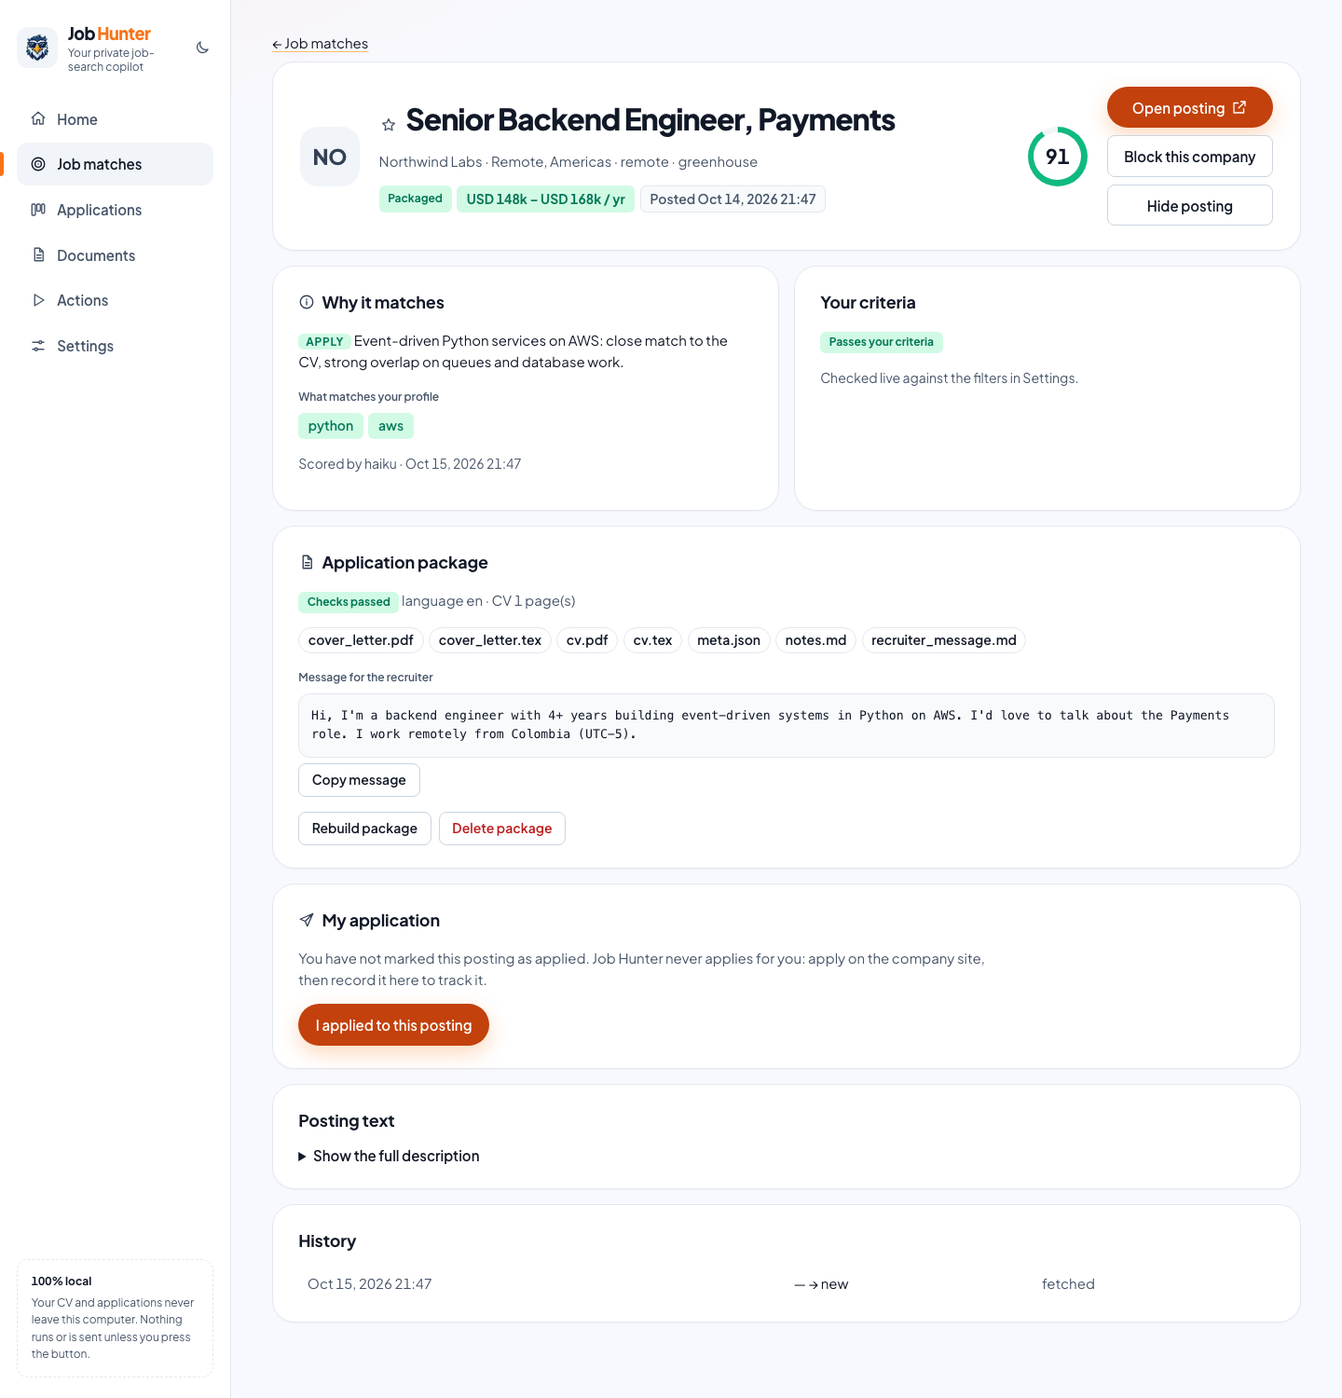
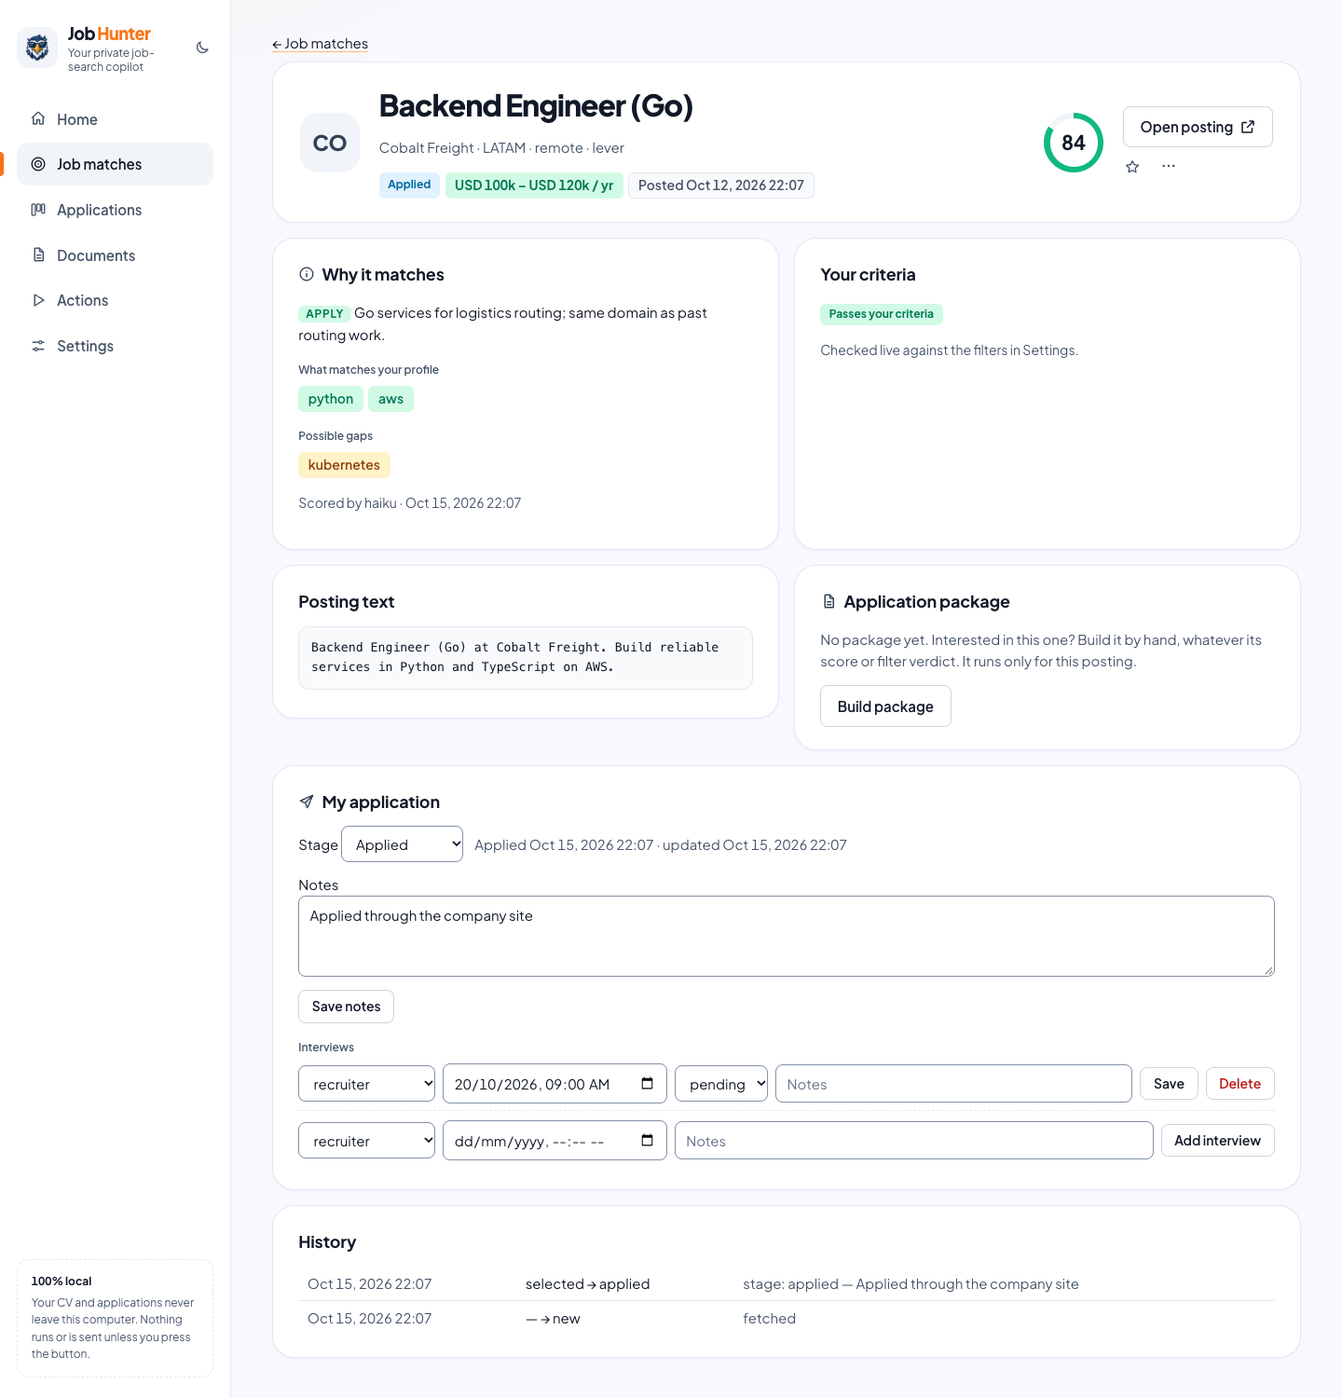
[DESIGN] - refactor posting page and job cards

diff --git a/src/jobhunter/web/templates/job.html b/src/jobhunter/web/templates/job.html
@@ -6,7 +6,7 @@
 <header class="job-head card">
   {{ m.avatar(job.company, 64) }}
   <div class="grow">
-    <h1>{{ m.star(job.id, favorite) }} {{ job.title }}</h1>
+    <h1>{{ job.title }}</h1>
     <p class="muted">{{ job.company }} · {{ job.location or 'location not stated' }} · {{ job.remote }} · {{ job.source }}</p>
     <div class="chips">
       <span class="badge st-{{ job.status }}">{{ STATUS_LABELS.get(job.status, job.status) }}</span>
@@ -20,9 +20,22 @@
   </div>
   {{ m.ring(score.score if score else none, 64) }}
   <div class="actions col">
-    {% if job.url.startswith('http://') or job.url.startswith('https://') %}<a class="btn primary" href="{{ job.url }}" target="_blank" rel="noopener" rel="noopener noreferrer">Open posting {{ m.icon('ext') }}</a>{% else %}<span class="muted">Posting link unavailable</span>{% endif %}
-    {% if not blocked %}<button class="btn" data-block-company="{{ job.company }}" data-blocked='{{ config_blocked|tojson|forceescape }}'>Block this company</button>{% endif %}
-    {% if not application and job.status != 'ignored' %}<button class="btn" data-post="/api/jobs/{{ job.id }}/ignore" data-json='{}' data-confirm="Hide this posting for good?">Hide posting</button>{% endif %}
+    {% set can_open = job.url.startswith('http://') or job.url.startswith('https://') %}
+    {% if job.status in ['passed', 'score_failed'] and not score %}<button class="btn primary" data-run='{{ {"id": "score", "jobs": [job.id]}|tojson|forceescape }}' data-label="Scoring this posting with AI" data-reload>{{ m.icon('spark') }} Score this posting</button>
+    {% elif not package and not application %}<button class="btn primary" data-run='{{ {"id": "tailor", "jobs": [job.id]}|tojson|forceescape }}' data-label="Building the package for this posting" data-reload>{{ m.icon('spark') }} Build package</button>
+    {% elif not application and can_open %}<a class="btn primary" href="{{ job.url }}" target="_blank" rel="noopener noreferrer">Open posting to apply {{ m.icon('ext') }}</a>{% endif %}
+    {% if can_open and not (not application and package) %}<a class="btn" href="{{ job.url }}" target="_blank" rel="noopener noreferrer">Open posting {{ m.icon('ext') }}</a>
+    {% elif not can_open %}<span class="muted">Posting link unavailable</span>{% endif %}
+    <div class="actions">
+      {{ m.star(job.id, favorite) }}
+      <details class="more">
+        <summary class="icon-btn" aria-label="More actions for this posting">{{ m.icon('more') }}</summary>
+        <div class="menu">
+          {% if not blocked %}<button type="button" data-block-company="{{ job.company }}" data-blocked='{{ config_blocked|tojson|forceescape }}'>Block this company</button>{% endif %}
+          {% if not application and job.status != 'ignored' %}<button type="button" data-post="/api/jobs/{{ job.id }}/ignore" data-json='{}' data-confirm="Hide this posting for good?">Not for me</button>{% endif %}
+        </div>
+      </details>
+    </div>
   </div>
 </header>
 
@@ -37,8 +50,7 @@
       {% if score.score < threshold %}<p class="muted small mt">Match score {{ score.score }} is below your best-match threshold of {{ threshold }} (Settings → AI &amp; documents). This is the AI's fit score, not your salary or location criteria.</p>{% endif %}
       <p class="muted small mt">Scored by {{ score.model }} · {{ score.created_at|dt }}</p>
     {% elif job.status in ['passed', 'score_failed'] %}
-      <p class="muted">Not scored yet. Score just this posting, or all pending ones from Home.</p>
-      <button class="btn primary" data-run='{{ {"id": "score", "jobs": [job.id]}|tojson|forceescape }}' data-label="Scoring this posting with AI" data-reload>{{ m.icon('spark') }} Score this posting with AI</button>
+      <p class="muted">Not scored yet. Press <b>Score this posting</b> at the top, or score all pending ones from Home.</p>
     {% else %}<p class="muted">Not scored yet. It has to pass your criteria first, then use “Score with AI” on the Home page.</p>{% endif %}
   </section>
 
@@ -57,6 +69,11 @@
   <button class="btn small" data-fav-note="{{ job.id }}">Save note</button>
 </section>
 
+<div class="grid-2 workspace">
+<section class="card">
+  <h2>Posting text</h2>
+  <pre class="desc">{{ job.description }}</pre>
+</section>
 <section class="card" id="package">
   <h2>{{ m.icon('doc') }} Application package</h2>
   {% if package %}
@@ -72,10 +89,11 @@
     <div class="actions mt"><button class="btn small" data-run='{{ {"id": "tailor", "jobs": [job.id]}|tojson|forceescape }}' data-label="Rebuilding the package" data-reload>Rebuild package</button>
       <button class="btn small danger" data-post="/api/jobs/{{ job.id }}/package/delete" data-json='{}' data-confirm="Delete the generated CV, letter and notes for this posting? Your application record is kept.">Delete package</button></div>
   {% else %}
-    <p class="muted">No package yet. Interested in this one? Build it by hand, whatever its score or filter verdict. It runs here, only for this posting.</p>
-    <button class="btn primary" data-run='{{ {"id": "tailor", "jobs": [job.id]}|tojson|forceescape }}' data-label="Building the package for this posting" data-reload>Build package for this posting</button>
+    <p class="muted">No package yet. Interested in this one? Build it by hand, whatever its score or filter verdict. It runs only for this posting.</p>
+    {% if application %}<button class="btn" data-run='{{ {"id": "tailor", "jobs": [job.id]}|tojson|forceescape }}' data-label="Building the package for this posting" data-reload>Build package</button>{% endif %}
   {% endif %}
 </section>
+</div>
 
 <section class="card">
   <h2>{{ m.icon('send') }} My application</h2>
@@ -104,18 +122,14 @@
       <select name="kind" aria-label="New interview: kind">{% for k in KINDS %}<option value="{{ k }}">{{ k.replace('_', ' ') }}</option>{% endfor %}</select>
       <input type="datetime-local" name="scheduled_at" aria-label="New interview: date and time">
       <input type="text" name="notes" placeholder="Notes" aria-label="New interview: notes">
-      <button class="btn primary small" type="submit">Add interview</button>
+      <button class="btn small" type="submit">Add interview</button>
     </form>
   {% else %}
     <p class="muted">You have not marked this posting as applied. Job Hunter never applies for you: apply on the company site, then record it here to track it.</p>
-    <button class="btn primary" data-post="/api/jobs/{{ job.id }}/stage" data-json='{"stage": "applied"}'>I applied to this posting</button>
+    <button class="btn" data-post="/api/jobs/{{ job.id }}/stage" data-json='{"stage": "applied"}'>I applied to this posting</button>
   {% endif %}
 </section>
 
-<section class="card">
-  <h2>Posting text</h2>
-  <details><summary>Show the full description</summary><pre class="desc">{{ job.description }}</pre></details>
-</section>
 
 <section class="card">
   <h2>History</h2>

diff --git a/src/jobhunter/web/templates/_top.html b/src/jobhunter/web/templates/_top.html
@@ -10,7 +10,7 @@
       <span class="chip">{{ r.location or 'Location not stated' }}</span>
       {% if r.remote not in (r.location or '')|lower %}<span class="chip">{{ r.remote }}</span>{% endif %}
       {% if r.salary_max %}<span class="chip pay">{{ r.salary_max|money(r.salary_currency) }}/yr</span>{% endif %}
-      <span class="badge st-{{ r.status }}">{{ STATUS_LABELS.get(r.status, r.status) }}</span>
+      {% if r.status not in ('scored', 'selected') %}<span class="badge st-{{ r.status }}">{{ STATUS_LABELS.get(r.status, r.status) }}</span>{% endif %}
       {% if below and r.status != 'below_threshold' %}<span class="badge warn">below your threshold</span>{% endif %}
       {% if r.source == 'manual' %}<span class="chip">Manual</span>{% endif %}
       {% if r.is_favorite and r.status == 'closed' %}<span class="badge bad">Closed</span>{% endif %}
@@ -23,11 +23,17 @@
   </div>
   {{ m.ring(r.score, 52) }}
   <div class="job-actions">
-    {% if r.has_package %}<a class="btn small primary" href="/jobs/{{ r.id }}#package">View package</a>
-    {% else %}<button class="btn small primary" data-run='{{ {"id": "tailor", "jobs": [r.id]}|tojson|forceescape }}' data-label="Building the package for “{{ r.title|truncate(40) }}”" data-reload>Build package</button>{% endif %}
-    {% if not r.stage %}<button class="btn small" data-post="/api/jobs/{{ r.id }}/stage" data-json='{"stage": "applied"}' data-top-check>I applied</button>
-    {% if r.status != 'ignored' %}<button class="btn small ghost" data-post="/api/jobs/{{ r.id }}/ignore" data-json='{}' data-confirm="Hide this posting for good?" data-top-check>Hide</button>
-    <button class="btn small ghost" data-not-for-me="{{ r.id }}" data-title="{{ r.title }}" data-company="{{ r.company }}">Not for me</button>{% endif %}{% endif %}
+    {% set visible = r.has_package or r.status in ('scored', 'selected', 'packaged', 'below_threshold') %}
+    {% if r.has_package %}<a class="btn small" href="/jobs/{{ r.id }}#package">View package</a>
+    {% elif visible %}<button class="btn small" data-run='{{ {"id": "tailor", "jobs": [r.id]}|tojson|forceescape }}' data-label="Building the package for “{{ r.title|truncate(40) }}”" data-reload>Build package</button>{% endif %}
+    <details class="more">
+      <summary class="icon-btn" aria-label="More actions for {{ r.title }}">{{ m.icon('more') }}</summary>
+      <div class="menu">
+        {% if not r.has_package and not visible %}<button type="button" data-run='{{ {"id": "tailor", "jobs": [r.id]}|tojson|forceescape }}' data-label="Building the package for “{{ r.title|truncate(40) }}”" data-reload>Build package</button>{% endif %}
+        {% if not r.stage %}<button type="button" data-post="/api/jobs/{{ r.id }}/stage" data-json='{"stage": "applied"}' data-top-check>I applied</button>
+        {% if r.status != 'ignored' %}<button type="button" data-not-for-me="{{ r.id }}" data-title="{{ r.title }}" data-company="{{ r.company }}">Not for me</button>{% endif %}{% endif %}
+      </div>
+    </details>
   </div>
 </article>
 {% endmacro %}
@@ -50,7 +56,9 @@
 <section class="card top-board" id="top-board" data-top-target="{{ plan.target }}">
   <div class="card-head"><h2>{{ m.icon('target') }} Your top {{ plan.target }}</h2>
     <p class="muted small">The best fits you have not dismissed. Hide one, or say it is not for you, and the next best takes its place.</p></div>
-  {{ top_fill(plan) }}
+  {% set todo = plan.board|rejectattr('has_package')|list %}
+  {% if todo %}<div class="board-head-action"><button class="btn primary" data-run='{{ {"id": "tailor", "jobs": todo|map(attribute="id")|list}|tojson|forceescape }}' data-label="Building {{ todo|length }} package{{ 's' if todo|length != 1 }}" data-reload>{{ m.icon('spark') }} Build {{ todo|length }} package{{ 's' if todo|length != 1 }} for your top {{ plan.target }}</button></div>{% endif %}
+  {{ top_fill(plan, not todo) }}
   {% if plan.below %}<p class="callout warn"><b>{{ m.icon('alert') }} {{ plan.below }} of these {{ 'is' if plan.below == 1 else 'are' }} below your score threshold.</b> They are the best of what is scored, not strong matches.</p>{% endif %}
   {% for r in plan.board %}{{ job_card(r, blocked, r.below_threshold) }}{% else %}<p class="muted">Nothing scored yet. Score your matches from Home.</p>{% endfor %}
   {% for text in suggestions %}<p class="hint">{{ m.icon('info') }} {{ text }}</p>{% endfor %}

diff --git a/src/jobhunter/web/static/style.css b/src/jobhunter/web/static/style.css
@@ -630,6 +630,37 @@ legend.flabel { padding: 0; }
 .job-reason { margin: .5rem 0 0; color: var(--ink); font-size: var(--text-sm); text-wrap: pretty; }
 .warn-line { margin: .35rem 0 0; color: var(--warn); font-size: var(--text-sm); display: flex; gap: .35rem; align-items: center; }
 .job-actions { display: flex; flex-direction: column; gap: .4rem; align-items: stretch; min-width: 128px; }
+.board-head-action { margin: .2rem 0 .8rem; }
+.more { position: relative; }
+.more > summary { list-style: none; cursor: pointer; display: inline-grid; place-items: center; }
+.more > summary::-webkit-details-marker { display: none; }
+.more .menu {
+  position: absolute;
+  right: 0;
+  top: calc(100% + .25rem);
+  z-index: var(--z-menu);
+  min-width: 11rem;
+  display: flex;
+  flex-direction: column;
+  padding: .3rem;
+  background: var(--panel);
+  border: 1px solid var(--border);
+  border-radius: var(--r-md);
+  box-shadow: var(--shadow-hover);
+}
+.more .menu button {
+  background: transparent;
+  border: 0;
+  border-radius: var(--r-sm);
+  padding: .5rem .7rem;
+  text-align: left;
+  font: inherit;
+  color: var(--ink);
+  cursor: pointer;
+}
+.more .menu button:hover { background: var(--soft); }
+.workspace { align-items: start; }
+.workspace pre.desc { white-space: pre-wrap; }
 .verdict {
   text-transform: uppercase;
   font-size: var(--text-xs);
@@ -725,7 +756,6 @@ ul.flags { margin: .3rem 0 0; padding-left: 1.2rem; }
 }
 .job-card .ring { order: 3; }
 .job-card .job-actions { order: 4; flex-direction: row; align-items: center; min-width: 18.5rem; justify-content: flex-end; }
-.job-card .job-actions .btn.ghost { padding-inline: .5rem; }
 .ring.none { box-shadow: none; }
 .big-link:hover { color: var(--accent-text); }
 .st-score_failed { background: var(--bad-soft); color: var(--bad); }

diff --git a/src/jobhunter/web/templates/_not_for_me.html b/src/jobhunter/web/templates/_not_for_me.html
@@ -2,12 +2,12 @@
   <form method="dialog" class="modal-body" id="nfm-form">
     <header class="row between"><h2 id="nfm-title">Not for me</h2><button type="button" class="icon-btn" data-close-nfm aria-label="Close">{{ m.icon('x') }}</button></header>
     <p class="muted small" id="nfm-what"></p>
-    <p class="muted small">Pick a reason (optional). It is only counted, so Settings can suggest what to tighten: nothing changes by itself.</p>
+    <p class="muted small">It disappears from your lists and never comes back. Pick a reason (optional): it is only counted, so Settings can suggest what to tighten: nothing changes by itself.</p>
     <div class="checks" role="radiogroup" aria-label="Reason">
       {% for key, label in NOT_FOR_ME_REASONS.items() %}<label class="check"><input type="radio" name="nfm-reason" value="{{ key }}"> {{ label }}</label>{% endfor %}
     </div>
     <div class="field"><label class="flabel" for="nfm-note">Note (optional)</label><input id="nfm-note" type="text" maxlength="200" placeholder="e.g. asks for US residency"></div>
     <p class="hint" id="nfm-block" hidden>You can also <a id="nfm-block-link" href="#">open the posting to block this company</a>.</p>
-    <div class="form-actions"><button type="button" class="btn primary" id="nfm-save">Hide it</button><button type="button" class="btn" data-close-nfm>Cancel</button></div>
+    <div class="form-actions"><button type="button" class="btn primary" id="nfm-save">Not for me</button><button type="button" class="btn" data-close-nfm>Cancel</button></div>
   </form>
 </dialog>

diff --git a/src/jobhunter/web/templates/base.html b/src/jobhunter/web/templates/base.html
@@ -28,6 +28,7 @@
       <symbol id="i-star" viewBox="0 0 24 24"><path d="M12 3.5l2.6 5.4 5.9.8-4.3 4.1 1 5.9-5.2-2.8-5.2 2.8 1-5.9L3.5 9.7l5.9-.8z" fill="none" stroke="currentColor" stroke-width="1.8" stroke-linecap="round" stroke-linejoin="round"/></symbol>
       <symbol id="i-star-fill" viewBox="0 0 24 24"><path d="M12 3.5l2.6 5.4 5.9.8-4.3 4.1 1 5.9-5.2-2.8-5.2 2.8 1-5.9L3.5 9.7l5.9-.8z" fill="currentColor" stroke="currentColor" stroke-width="1.8" stroke-linejoin="round"/></symbol>
       <symbol id="i-x" viewBox="0 0 24 24"><path d="M6 6l12 12M18 6L6 18" fill="none" stroke="currentColor" stroke-width="1.8" stroke-linecap="round" stroke-linejoin="round"/></symbol>
+      <symbol id="i-more" viewBox="0 0 24 24"><circle cx="5" cy="12" r="1.6" fill="currentColor"/><circle cx="12" cy="12" r="1.6" fill="currentColor"/><circle cx="19" cy="12" r="1.6" fill="currentColor"/></symbol>
       <symbol id="i-minus" viewBox="0 0 24 24"><path d="M6 12h12" fill="none" stroke="currentColor" stroke-width="1.8" stroke-linecap="round" stroke-linejoin="round"/></symbol>
       <symbol id="i-spark" viewBox="0 0 24 24"><path d="M12 3l1.8 5.2L19 10l-5.2 1.8L12 17l-1.8-5.2L5 10l5.2-1.8zM19 16l.8 2.2L22 19l-2.2.8L19 22l-.8-2.2L16 19l2.2-.8z" fill="currentColor"/></symbol>
       <symbol id="i-search" viewBox="0 0 24 24"><circle cx="11" cy="11" r="7" fill="none" stroke="currentColor" stroke-width="1.8"/><path d="M16.5 16.5L21 21" stroke="currentColor" stroke-width="1.8" stroke-linecap="round"/></symbol>

diff --git a/src/jobhunter/web/templates/packages.html b/src/jobhunter/web/templates/packages.html
@@ -20,7 +20,7 @@
   {% if it.pkg %}
   {% if it.pkg.meta.get('problems') %}<ul class="flags">{% for p in it.pkg.meta.problems %}<li>{{ p }}</li>{% endfor %}</ul>{% endif %}
   <div class="chips mt">
-    {% for file in it.pkg.files if file.name.endswith('.pdf') %}<a class="btn small primary" href="{{ file.url }}" target="_blank" rel="noopener">{{ m.icon('doc') }} {{ 'CV' if file.name == 'cv.pdf' else 'Cover letter' }}</a>{% endfor %}
+    {% for file in it.pkg.files if file.name.endswith('.pdf') %}<a class="btn small" href="{{ file.url }}" target="_blank" rel="noopener">{{ m.icon('doc') }} {{ 'CV' if file.name == 'cv.pdf' else 'Cover letter' }}</a>{% endfor %}
     {% for file in it.pkg.files if not file.name.endswith('.pdf') %}<a class="chip link" href="{{ file.url }}" target="_blank" rel="noopener">{{ file.name }}</a>{% endfor %}
   </div>
   {% else %}<p class="muted">The files for this package are no longer on disk.</p>{% endif %}

diff --git a/src/jobhunter/web/templates/jobs.html b/src/jobhunter/web/templates/jobs.html
@@ -6,7 +6,7 @@
 <header class="page-head">
   <div><h1>Job matches</h1><p class="muted">Roles that passed your criteria, rated against your CV. Open one to see why it fits and what to double-check.</p></div>
   <div class="actions"><button class="btn" data-open-add>{{ m.icon('doc') }} Add a posting</button>
-  <button class="btn primary" data-run='{"id":"search"}' data-label="Searching for new jobs" data-reload>{{ m.icon('search') }} Search for new jobs</button></div>
+  <button class="btn" data-run='{"id":"search"}' data-label="Searching for new jobs" data-reload>{{ m.icon('search') }} Search for new jobs</button></div>
 </header>
 
 <nav class="tabs">

diff --git a/src/jobhunter/web/templates/pipeline.html b/src/jobhunter/web/templates/pipeline.html
@@ -25,7 +25,7 @@
     {% for r in ready %}
     <article class="kcard">
       <div class="kcard-top">{{ m.ring(r.score, 40) }}<div class="grow"><a class="ktitle" href="/jobs/{{ r.id }}">{{ r.title }}</a><div class="muted small">{{ r.company }}</div></div></div>
-      <button class="btn small primary" data-post="/api/jobs/{{ r.id }}/stage" data-json='{"stage": "applied"}'>I applied</button>
+      <button class="btn small" data-post="/api/jobs/{{ r.id }}/stage" data-json='{"stage": "applied"}'>I applied</button>
     </article>
     {% else %}<p class="muted small">Nothing waiting. Build packages for your best matches.</p>{% endfor %}
   </section>

diff --git a/src/jobhunter/web/static/app.js b/src/jobhunter/web/static/app.js
@@ -526,6 +526,16 @@
     });
   }
 
+  // ---------- overflow menus (<details class="more">) ----------
+  document.addEventListener('click', (ev) => {
+    $$('details.more[open]').forEach((d) => { if (!d.contains(ev.target) || ev.target.closest('.menu button')) d.open = false; });
+  });
+  document.addEventListener('keydown', (ev) => {
+    if (ev.key !== 'Escape') return;
+    const open = $('details.more[open]');
+    if (open) { open.open = false; $('summary', open).focus(); }
+  });
+
   // ---------- health ----------
   const health = $('#health');
   if (health) {

diff --git a/src/jobhunter/web/templates/run.html b/src/jobhunter/web/templates/run.html
@@ -25,7 +25,7 @@
         <label class="opt-check"><input type="checkbox" data-opt="force"> Rebuild ones already done</label>{% endif %}
       {% endif %}
     </div>
-    <button class="btn primary" data-runcard="{{ s.id }}" data-label="{{ s.label }}">{{ m.icon('play') }} Run</button>
+    <button class="btn" data-runcard="{{ s.id }}" data-label="{{ s.label }}">{{ m.icon('play') }} Run</button>
     {% if s.llm %}<p class="muted small">{{ backend }} backend · up to {{ max_calls }} AI calls per run</p>{% endif %}
   </section>
   {% endfor %}

diff --git a/src/jobhunter/web/static/tokens.css b/src/jobhunter/web/static/tokens.css
@@ -53,7 +53,7 @@
   --space-5: 1.5rem; --space-6: 2rem; --space-7: 3rem; --space-8: 4rem;
 
   /* layers */
-  --z-raise: 1; --z-sticky: 2; --z-dock: 50; --z-toast: 60; --z-notice: 70;
+  --z-raise: 1; --z-sticky: 2; --z-menu: 5; --z-dock: 50; --z-toast: 60; --z-notice: 70;
 
   --side: 248px;
 }

diff --git a/tests/test_web.py b/tests/test_web.py
@@ -418,7 +418,7 @@ def test_empty_or_invalid_numeric_filters_do_not_break_the_page(env):
 def test_any_posting_can_be_packaged_by_hand_from_its_page(env):
     client = env[0]
     below = client.get("/jobs/2", headers=HOST).text  # filtered-out posting
-    assert "Build package for this posting" in below
+    assert "Build package</button>" in below and "No package yet" in below
     assert "&#34;jobs&#34;: [2]" in below or '"jobs": [2]' in below  # runs only this posting
     assert "/run?tailor" not in below  # runs in place, no navigation to the Actions page
     assert 'id="dock"' in below  # the live log panel exists on every page
@@ -585,7 +585,7 @@ def test_add_posting_api_and_pages(env):
     assert res.status_code == 200 and res.json()["created"]
     url = res.json()["url"]
     page = client.get(url, headers=HOST).text
-    assert "Manual" in page and "Score this posting with AI" in page
+    assert "Manual" in page and "Score this posting</button>" in page
     assert "Manual" in client.get("/jobs?status=all", headers=HOST).text
     again = client.post("/api/postings", json=body, headers=HOST).json()
     assert not again["created"]
@@ -916,3 +916,18 @@ def test_reload_keeps_place():
     js = (Path(__file__).parents[1] / "src/jobhunter/web/static/app.js").read_text()
     assert js.count("location.reload()") == 1  # only inside reloadHere
     assert "jh_place" in js
+
+
+def test_job_cards_are_quiet_and_dismissal_is_one_action(env):
+    html = env[0].get("/jobs?status=best", headers=HOST).text
+    assert ">Hide<" not in html and "data-not-for-me" in html  # Hide merged into Not for me
+    assert 'class="more"' in html  # secondary actions live in an overflow menu
+    assert len(re.findall(r'btn small primary" (?:data-run|href)', html)) == 0  # none per card
+
+
+def test_posting_page_has_one_primary_and_a_workspace(env):
+    page = env[0].get("/jobs/3", headers=HOST).text
+    assert len(re.findall(r'class="btn primary" (?:data-run|href)', page)) == 1
+    assert 'class="more"' in page and "workspace" in page
+    h1 = re.search(r"<h1>(.*?)</h1>", page, re.S).group(1)
+    assert "star" not in h1  # the star left the title
